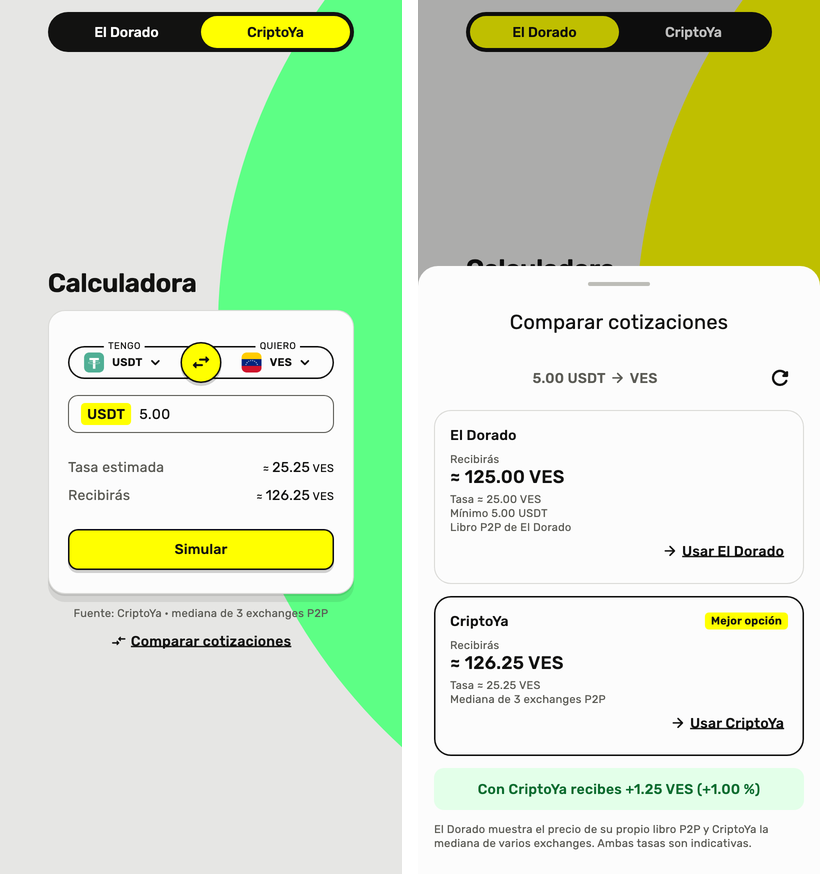
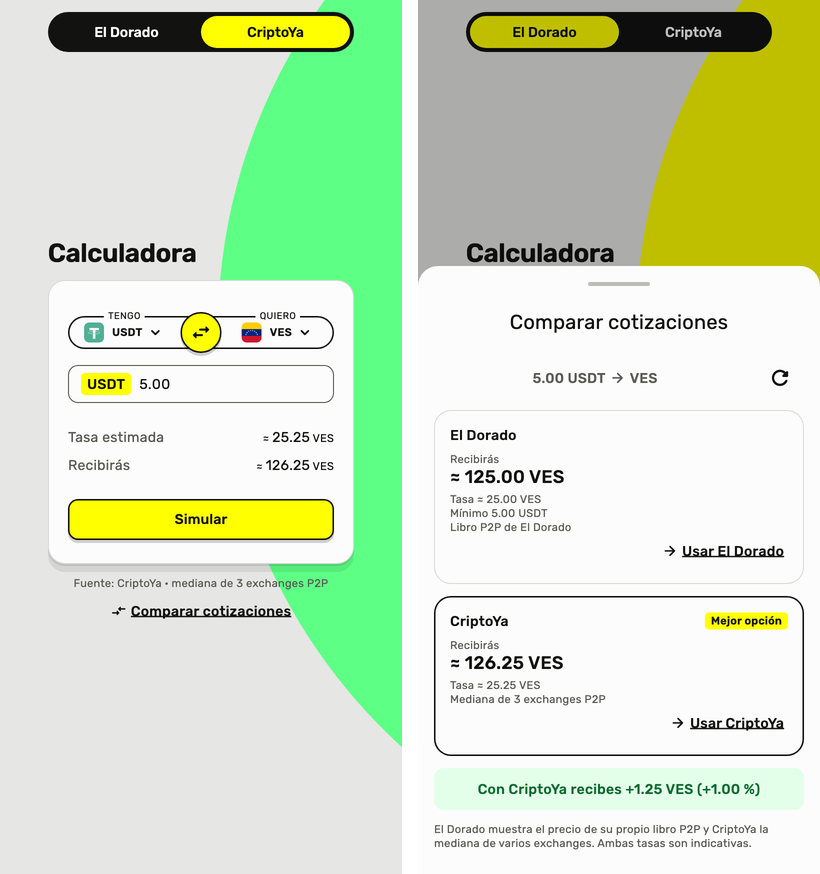
fix(home): keep the calculator in the same place on both tabs
The calculator was vertically centered, so its position depended on the
card height: the CriptoYa card has no 'Tiempo estimado' row and sat lower
than El Dorado's, and messages inside a card moved it up.

- ExchangeView anchors the title and the card at the top, below an inset
  that would center a block of AppSizes.calculatorBlockHeight (450 pt);
  the minimum is 24 pt. On the mock's phone this keeps El Dorado where it
  was, and whatever changes height now grows downwards.
- AppLayout.calculatorTopInset and AppSizes.calculatorBlockHeight tokens.
- Tests: same title and card position on both tabs with a quote, and a
  below-minimum message does not move them; the small-screen test scrolls
  to 'Comparar cotizaciones'.
- Goldens and README screenshots regenerated; design system and
  architecture docs updated.

Changed region(s): [[0.061, 0.278, 0.4573, 0.7414], [0.5488, 0.278, 0.7622, 0.3089]]

diff --git a/lib/features/exchange/presentation/views/exchange_view.dart b/lib/features/exchange/presentation/views/exchange_view.dart
@@ -22,7 +22,7 @@ typedef OpenInProviderCallback =
 
 /// La calculadora de una pestaña. Lee su `ExchangeBloc` del árbol.
 ///
-/// "Cambiar" abre la confirmación. Las acciones que salen de la calculadora
+/// "Simular" abre la confirmación. Las acciones que salen de la calculadora
 /// (comparar, "Ver en …", ejecutar el cambio confirmado) las provee quien
 /// compone la pantalla, así `exchange` no depende de otras features.
 class ExchangeView extends StatelessWidget {
@@ -57,13 +57,16 @@ class ExchangeView extends StatelessWidget {
               keyboardDismissBehavior: ScrollViewKeyboardDismissBehavior.onDrag,
               child: ConstrainedBox(
                 constraints: BoxConstraints(minHeight: constraints.maxHeight),
-                child: Center(
+                // Anclada arriba, no centrada: así queda en el mismo lugar en
+                // ambas pestañas aunque sus tarjetas midan distinto.
+                child: Align(
+                  alignment: Alignment.topCenter,
                   child: Padding(
-                    padding: EdgeInsets.symmetric(
-                      horizontal: AppLayout.horizontalMargin(
-                        constraints.maxWidth,
-                      ),
-                      vertical: AppSpacing.xxl,
+                    padding: EdgeInsets.fromLTRB(
+                      AppLayout.horizontalMargin(constraints.maxWidth),
+                      AppLayout.calculatorTopInset(constraints.maxHeight),
+                      AppLayout.horizontalMargin(constraints.maxWidth),
+                      AppSpacing.xxl,
                     ),
                     child: ConstrainedBox(
                       constraints: const BoxConstraints(

diff --git a/test/features/home/presentation/pages/home_page_test.dart b/test/features/home/presentation/pages/home_page_test.dart
@@ -127,6 +127,37 @@ void main() {
     expect(find.text('Calculadora').hitTestable(), findsOneWidget);
   });
 
+  testWidgets('título y tarjeta en el mismo lugar en ambas pestañas, aunque '
+      'la tarjeta de CriptoYa no tenga tiempo estimado', (tester) async {
+    await pumpHome(tester);
+    Rect titleRect() => tester.getRect(find.text('Calculadora').hitTestable());
+    Rect cardRect() => tester.getRect(find.byType(DsCard).hitTestable().first);
+
+    await tester.enterText(visibleField(), '5');
+    await tester.pumpAndSettle();
+    expect(find.text('Tiempo estimado').hitTestable(), findsOneWidget);
+    final eldoradoTitle = titleRect();
+    final eldoradoCard = cardRect();
+
+    await tester.tap(find.text('CriptoYa'));
+    await tester.pumpAndSettle();
+    await tester.enterText(visibleField(), '5');
+    await tester.pumpAndSettle();
+    expect(find.text('Tiempo estimado').hitTestable(), findsNothing);
+    expect(titleRect(), eldoradoTitle);
+    expect(cardRect().topLeft, eldoradoCard.topLeft);
+    expect(cardRect().height, lessThan(eldoradoCard.height));
+
+    // Un mensaje dentro de la tarjeta la alarga hacia abajo sin moverla.
+    await tester.tap(find.text('El Dorado'));
+    await tester.pumpAndSettle();
+    await tester.enterText(visibleField(), '1');
+    await tester.pumpAndSettle();
+    expect(find.textContaining('Mínimo').hitTestable(), findsOneWidget);
+    expect(titleRect(), eldoradoTitle);
+    expect(cardRect().topLeft, eldoradoCard.topLeft);
+  });
+
   testWidgets('el fondo de CriptoYa tiene otro color que el de El Dorado', (
     tester,
   ) async {

diff --git a/lib/core/design_system/tokens/app_dimensions.dart b/lib/core/design_system/tokens/app_dimensions.dart
@@ -1,3 +1,5 @@
+import 'dart:math' as math;
+
 import 'package:flutter/widgets.dart';
 
 /// Espaciados en una escala de 4 pt.
@@ -52,6 +54,10 @@ abstract final class AppSizes {
   /// Alto máximo del selector de monedas, como fracción de la pantalla. Con
   /// pocas monedas el sheet se ajusta a la lista.
   static const double pickerSheetMaxHeightFactor = 0.7;
+
+  /// Alto de referencia del bloque de la calculadora (título, tarjeta con
+  /// sus tres filas, fuente y enlace) en el teléfono del mock.
+  static const double calculatorBlockHeight = 450;
 }
 
 /// Reglas de layout responsive.
@@ -59,6 +65,14 @@ abstract final class AppLayout {
   /// Margen lateral del contenido: 48 pt en teléfonos como el del mock
   /// (402 pt → tarjeta de ~306 pt) y 16 pt en pantallas angostas.
   static double horizontalMargin(double width) => width >= 380 ? 48 : 16;
+
+  /// Espacio sobre el título de la calculadora: el que la dejaría centrada
+  /// si midiera [AppSizes.calculatorBlockHeight] (138 pt en el teléfono del
+  /// mock). No depende del contenido real: el título y la tarjeta quedan en
+  /// el mismo lugar en todas las pestañas y no se mueven cuando aparece un
+  /// mensaje o falta una fila; lo que cambia de alto crece hacia abajo.
+  static double calculatorTopInset(double height) =>
+      math.max(AppSpacing.xxl, (height - AppSizes.calculatorBlockHeight) / 2);
 }
 
 /// Sombras.

diff --git a/test/features/home/presentation/pages/home_ux_test.dart b/test/features/home/presentation/pages/home_ux_test.dart
@@ -107,6 +107,9 @@ void main() {
     await tester.pumpAndSettle();
     expect(tester.takeException(), isNull);
 
+    // La calculadora no entra entera: se llega al enlace con scroll.
+    await tester.ensureVisible(find.text('Comparar cotizaciones').first);
+    await tester.pumpAndSettle();
     await tester.tap(find.text('Comparar cotizaciones').hitTestable());
     await tester.pumpAndSettle();
     expect(tester.takeException(), isNull);

diff --git a/DESIGN_SYSTEM.md b/DESIGN_SYSTEM.md
@@ -102,7 +102,7 @@ Fuente **Rubik** (OFL), empaquetada en `assets/fonts/` para no depender de la re
 | `AppSpacing` | `xxs` 2 · `xs` 4 · `sm` 8 · `md` 12 · `lg` 16 · `xl` 20 · `xxl` 24 · `xxxl` 32 · `huge` 40 |
 | `AppRadius` | `badge` 4 · `icon` 5 · `control` 10 (campos y botones) · `card` 17 · `sheet` 20 · `pill` |
 | `AppSizes` | selector 33 · campo 38 · botón 41 · swap 41 · pestañas 40 · íconos de UI 16/18/22 · íconos de moneda 20/24 · radio 22 (anillo 2, punto 8) · fila de lista 62 · fila del resumen 28 · handle 62×4 · ancho máximo 400 (contenido) y 520 (sheets) · selector de monedas: alto según la lista, hasta el 70 % de la pantalla |
-| `AppLayout` | margen lateral 48 pt desde 380 pt de ancho (tarjeta de ~306 pt en el teléfono del mock), 16 pt en pantallas angostas |
+| `AppLayout` | margen lateral 48 pt desde 380 pt de ancho (tarjeta de ~306 pt en el teléfono del mock), 16 pt en pantallas angostas; `calculatorTopInset`: espacio sobre el título de la calculadora, el que la centraría si midiera `AppSizes.calculatorBlockHeight` (450 pt), mínimo 24 pt |
 | `AppShadows` | `card` (ambiente suave + borde inferior marcado, como el mock) · `raised` (botón de swap) |
 | `AppMotion` | `fast` 150 ms · `normal` 250 ms · `slow` 400 ms · curva `easeOutCubic` |
 
@@ -149,6 +149,7 @@ flutter test --dart-define=GOLDENS=true --tags golden [--update-goldens]
 | Prefijo del monto ("USDT") | texto ámbar | código en tinta sobre amarillo |
 | Selector de monedas | 70 % de la pantalla | alto según la lista (tope del 70 %) |
 | Título | — | "Calculadora" encima de la tarjeta, alineado con su borde |
+| Posición de la calculadora | centrada en la pantalla | anclada arriba a una distancia fija (`AppLayout.calculatorTopInset`): el título y la tarjeta quedan en el mismo lugar en ambas pestañas aunque la de CriptoYa no tenga "Tiempo estimado", y los mensajes alargan la tarjeta hacia abajo sin moverla |
 | Orden del selector FIAT | VES, COP, ARS, PEN, BRL, BOB | alfabético por país: ARS, BOB, BRL, COP, PEN, VES |
 
 La estructura, las medidas y la tipografía no cambian.

diff --git a/ARCHITECTURE.md b/ARCHITECTURE.md
@@ -484,12 +484,13 @@ HomePage                                    # HomeCubit + Map<RateProvider, Exch
         ├── ExchangeBackground              # semicírculo amarillo (CustomPainter)
         └── SafeArea → Column
             ├── ProviderTabs                # "El Dorado" | "CriptoYa"
-            └── Expanded → IndexedStack
+            └── Expanded → Stack                # pestañas superpuestas con fundido
                 ├── BlocProvider.value(eldorado) → ExchangeView
                 └── BlocProvider.value(criptoya) → ExchangeView
 
 ExchangeView
-└── Center → ConstrainedBox(maxWidth: 400) → Column
+└── Align(topCenter) + AppLayout.calculatorTopInset → ConstrainedBox(maxWidth: 400) → Column
+    │                                       # anclada arriba: misma posición en ambas pestañas
     ├── Text("Calculadora")                 # header, alineado con el borde de la tarjeta
     ├── ExchangeCard
     │   ├── CurrencyPairSelector            # píldora con etiquetas TENGO / QUIERO en el borde
